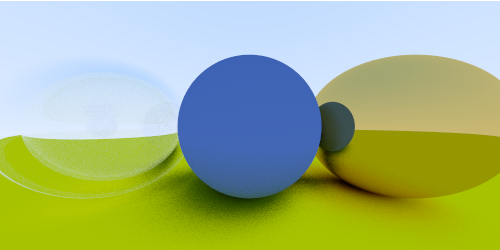
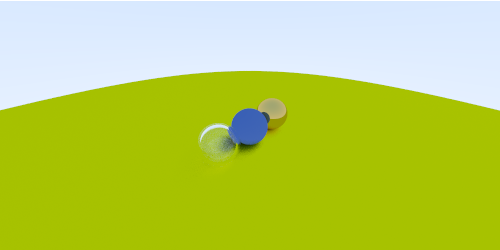
dof wip

diff --git a/go/ray-tracing-in-one-weekend/src/gfx/camera.go b/go/ray-tracing-in-one-weekend/src/gfx/camera.go
@@ -1,6 +1,9 @@
 package gfx
 
 import (
+	"math"
+
+	"github.com/robertsmj1/learning/go/ray-tracing-in-one-weekend/src/util"
 	"github.com/robertsmj1/learning/go/ray-tracing-in-one-weekend/src/vec"
 )
 
@@ -15,32 +18,33 @@ type camera struct {
 	Vertical        vec.Vec3
 }
 
-func NewCamera() camera {
-	aspect_ratio := 2.0
-	viewport_height := 2.0
+func NewCamera(lookfrom vec.Point, lookat vec.Point, vup vec.Vec3, vfov float64, aspect_ratio float64, aperture float64, focus_dist float64) camera {
+	theta := util.DegreesToRadius(vfov)
+	h := math.Tan(theta / 2.0)
+	viewport_height := 2.0 * h
 	viewport_width := aspect_ratio * viewport_height
-	focal_length := 1.0
 
-	origin := vec.Point{X: 0, Y: 0, Z: 0}
-	horizontal := vec.Vec3{X: viewport_width, Y: 0, Z: 0}
-	vertical := vec.Vec3{X: 0, Y: viewport_height, Z: 0}
-	lower_left_corner := origin.
-		Subtract(horizontal.Divide(2)).
-		Subtract(vertical.Divide(2)).
-		Subtract(vec.Vec3{X: 0, Y: 0, Z: focal_length})
+	w := lookfrom.Subtract(lookat).Unit()
+	u := vec.Cross(vup, w).Unit()
+	v := vec.Cross(w, u)
+
+	origin := lookfrom
+	horizontal := u.Multiply(viewport_width)
+	vertical := v.Multiply(viewport_height)
+	lower_left_corner := origin.Subtract(horizontal.Divide(2)).Subtract(vertical.Divide(2)).Subtract(w)
 
 	return camera{
 		Origin:          origin,
-		Horizontal:      horizontal,
-		Vertical:        vertical,
+		Horizontal:      u.Multiply(viewport_width),
+		Vertical:        v.Multiply(viewport_height),
 		LowerLeftCorner: lower_left_corner,
 	}
 }
 
-func (c camera) GetRay(u, v float64) vec.Ray {
+func (c camera) GetRay(s, t float64) vec.Ray {
 	dir := c.LowerLeftCorner.
-		Add(c.Horizontal.Multiply(u)).
-		Add(c.Vertical.Multiply(v)).
+		Add(c.Horizontal.Multiply(s)).
+		Add(c.Vertical.Multiply(t)).
 		Subtract(c.Origin)
 
 	return vec.Ray{Origin: c.Origin, Direction: dir}

diff --git a/go/ray-tracing-in-one-weekend/src/main.go b/go/ray-tracing-in-one-weekend/src/main.go
@@ -32,22 +32,31 @@ func main() {
 	const samples_per_pixel = 100
 	const max_depth = 50
 
-	var world hit.HittableList
-
 	material_ground := mat.Lambertian{Albedo: vec.Color{X: 0.8, Y: 0.8, Z: 0.0}}
 	material_center := mat.Lambertian{Albedo: vec.Color{X: 0.1, Y: 0.2, Z: 0.5}}
 	material_left := mat.Dielectric{IR: 1.5}
 	material_right := mat.Metal{Albedo: vec.Color{X: 0.8, Y: 0.6, Z: 0.2}, Fuzz: 0.0}
+	// material_left := mat.Lambertian{Albedo: vec.Color{X: 0, Y: 0, Z: 1}}
+	// material_right := mat.Lambertian{Albedo: vec.Color{X: 1, Y: 0, Z: 0}}
 
+	var world hit.HittableList
 	world.Add(geo.Sphere{Center: vec.Point{X: 0, Y: -100.5, Z: -1}, Radius: 100, Mat: material_ground})
 	world.Add(geo.Sphere{Center: vec.Point{X: 0, Y: 0, Z: -1}, Radius: 0.5, Mat: material_center})
 	world.Add(geo.Sphere{Center: vec.Point{X: -1, Y: 0, Z: -1}, Radius: 0.5, Mat: material_left})
 	world.Add(geo.Sphere{Center: vec.Point{X: -1, Y: 0, Z: -1}, Radius: -0.4, Mat: material_left})
 	world.Add(geo.Sphere{Center: vec.Point{X: 1, Y: 0, Z: -1}, Radius: 0.5, Mat: material_right})
+	// world.Add(geo.Sphere{Center: vec.Point{X: -R, Y: 0, Z: -1}, Radius: R, Mat: material_left})
+	// world.Add(geo.Sphere{Center: vec.Point{X: R, Y: 0, Z: -1}, Radius: R, Mat: material_right})
 
 	// Camera
-	camera := gfx.NewCamera()
+	lookfrom := vec.Point{X: -2, Y: 2, Z: 1}
+	lookat := vec.Point{X: 0, Y: 0, Z: -1}
+	vup := vec.Point{X: 0, Y: 1, Z: 0}
+	dist_to_focus := lookfrom.Subtract(lookat).Length()
+	aperture := 0.0
+	camera := gfx.NewCamera(lookfrom, lookat, vup, 90.0, aspect_ratio, aperture, dist_to_focus)
 
+	// Render
 	bar := progressbar.Default(int64(image_height))
 	img := image.NewNRGBA(image.Rect(0, 0, image_width, image_height))
 

diff --git a/go/ray-tracing-in-one-weekend/src/vec/vec3.go b/go/ray-tracing-in-one-weekend/src/vec/vec3.go
@@ -128,6 +128,16 @@ func RandomInUnitSphere() Vec3 {
 	return p
 }
 
+func RandomInUnitDisk() Vec3 {
+	for {
+		p := Vec3{X: util.RandomInRange(-1, 1), Y: util.RandomInRange(-1, 1), Z: 0}
+		if p.LengthSquared() >= 1 {
+			continue
+		}
+		return p
+	}
+}
+
 func RandomUnitVector() Vec3 {
 	return RandomInUnitSphere().Unit()
 }
